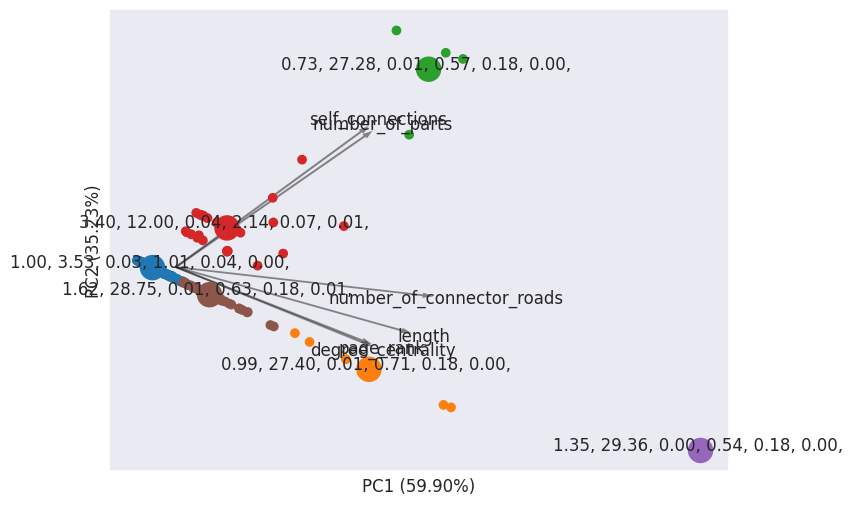
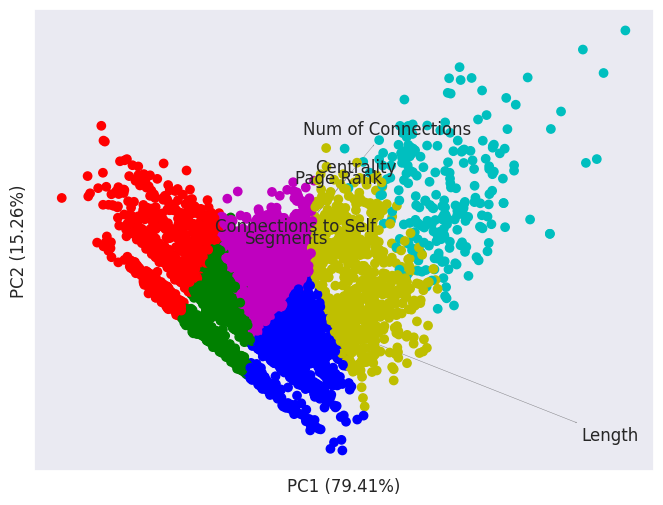
log scale and removed insane connections

diff --git a/capstone_roads.py b/capstone_roads.py
@@ -6,7 +6,9 @@
 import geopandas as gpd
 import shapely
 import pandas as pd
+import numpy as np
 import timeit
+import math
 
 # pip install icecream
 from icecream import ic
@@ -51,7 +53,8 @@ def get_neighbors_and_update(this_dict, this_name, this_line, tree, data):
             if data["FULLNAME"][id] == this_name:
                 this_dict["self_connections"] += 1
             # append all connected roads that are not this road
-            this_dict["connections_names"].append(data["FULLNAME"][id])
+            if data["FULLNAME"][id] not in this_dict["connections_names"]:
+                this_dict["connections_names"].append(data["FULLNAME"][id])
             this_dict["number_of_connector_roads"] += 1
     return this_dict
 
@@ -212,23 +215,26 @@ def show_results(list_of_connected_dicts):
     # takes a while to put back into queriable format
     df = df.drop(columns=["road_name", "connections_names", "is_named"])
     pd.set_option("display.max_columns", None)
+    ic(df.columns)
 
-    new_df = df.copy()
+    transformed_df = df.copy()
+    eps = 0.000001
 
     for i, col in enumerate(df.columns):
-        new_df[col] = df[col] / df[col].max()
+        transformed_df[col] = df[col] / df[col].max()
+        transformed_df[col] = np.log(transformed_df[col] + eps)
         # normalize. Make sure not all vals are the same. If two values then they will be as far apart as possible
+        # log scale, 0 undefined
 
     kmeans = KMeans(n_clusters=6)
-    kmeans.fit(new_df)
-    ic(kmeans.cluster_centers_)
+    kmeans.fit(transformed_df)
     orig_dimen_centers = [
         kmeans.cluster_centers_[i] * df[col].max() for i, col in enumerate(df.columns)
     ]
     # kmeans first and then pca later -- provides the most seperation
 
     pca = PCA(n_components=2)
-    reduced_data = pca.fit_transform(new_df)
+    reduced_data = pca.fit_transform(transformed_df)
     print(
         "our variance explained by the first two principle components are:",
         pca.explained_variance_ratio_,
@@ -236,7 +242,7 @@ def show_results(list_of_connected_dicts):
 
     transformed_center = pca.transform(kmeans.cluster_centers_)
 
-    tabl_cols = list(mcolors.TABLEAU_COLORS.values())
+    tabl_cols = list(mcolors.BASE_COLORS.values())
     cols = [tabl_cols[int(val)] for val in kmeans.labels_]
 
     k_cols = [tabl_cols[i] for i in range(6)]
@@ -255,6 +261,15 @@ def show_results(list_of_connected_dicts):
     # empirical formula to determine arrow width
     width = -0.0075 * min([subtract(*plt.xlim()), subtract(*plt.ylim())])
 
+    col_names = [
+        "Connections to Self",
+        "Num of Connections",
+        "Length",
+        "Segments",
+        "Centrality",
+        "Page Rank",
+    ]
+
     # features as arrows
     for i, arrow in enumerate(arrows):
         plt.arrow(
@@ -262,42 +277,44 @@ def show_results(list_of_connected_dicts):
             0,
             *arrow,
             color="k",
-            alpha=0.5,
+            alpha=0.3,
             width=width,
             ec="none",
             length_includes_head=True,
         )
-        plt.text(*(arrow * 1.05), df.columns[i], ha="center", va="center")
+        plt.text(*(arrow * 1.1), col_names[i], ha="center", va="center", fontsize=14)
 
     centers = pd.DataFrame(transformed_center)
-    ic(centers)
 
     # axis labels
     for i, axis in enumerate("xy"):
         getattr(plt, f"{axis}ticks")([])
-        getattr(plt, f"{axis}label")(f"PC{i + 1} ({pvars[i]:.2f}%)")
+        getattr(plt, f"{axis}label")(f"Principle Component {i + 1} ({pvars[i]:.2f}%)")
 
     plt.scatter(reduced_data[:, 0], reduced_data[:, 1], c=cols)
-    plt.scatter(centers.iloc[:, 0], centers.iloc[:, 1], c=k_cols, s=300)
+    # plt.scatter(centers.iloc[:, 0], centers.iloc[:, 1], c=k_cols, s=300)
 
-    for k in range(6):
-        new_str = ""
-        for val in range(6):
-            str_seg = float(orig_dimen_centers[val][k])
-            new_str += f"{str_seg:.2f}, "
-        plt.text(
-            centers.iloc[k, 0],
-            centers.iloc[k, 1],
-            s=new_str,
-            horizontalalignment="center",
-        )
+    # for k in range(6):
+    #     new_str = ""
+    #     for val in range(6):
+    #         str_seg = float(orig_dimen_centers[val][k])
+    #         new_str += f"{str_seg:.2f}, "
+    #     plt.text(
+    #         centers.iloc[k, 0],
+    #         centers.iloc[k, 1],
+    #         s=new_str,
+    #         horizontalalignment="center",
+    #     )
+
+    # center with label ^
     plt.savefig("pca_w_loadings", bbox_inches="tight")
     plt.close()
 
     # Put the result into a color plot (saved as png, not interactive)
     fig, ax = plt.subplots()
     ax.scatter(reduced_data[:, 0], reduced_data[:, 1], c=cols)
-    ax.scatter(centers.iloc[:, 0], centers.iloc[:, 1], c=k_cols, s=300)
+    # ax.scatter(centers.iloc[:, 0], centers.iloc[:, 1], c=k_cols, s=300)
+    # center ^
     ax.set_title("K-means clustering on the roads (projected via PCA)")
     ax.set_xticks(())
     ax.set_yticks(())
@@ -339,8 +356,6 @@ def setup(filepath):
 
     num_roads = len(data["geometry"])
     shape_files = data["geometry"]
-
-    plot(shape_files)
 
     for j in range(num_roads):
         if str(data["FULLNAME"][j]) == "nan":
@@ -399,4 +414,4 @@ def main(filepath):
 
 
 if __name__ == "__main__":
-    main(filepath="tl_2022_51678_roads.zip")
+    main(filepath="tl_2022_06047_roads.zip")

diff --git a/gui.py b/gui.py
@@ -12,6 +12,8 @@ from PyQt5.QtWidgets import QApplication
 import capstone_roads  # our python file. Should be in the same working directory as this python script
 import matplotlib.pyplot as plt
 import geopandas as gpd
+import pandas as pd
+from icecream import ic
 
 plt.switch_backend("Agg")  # so no issues with GUI backend
 import seaborn as sns
@@ -27,6 +29,12 @@ def main():
         gpd_files = gpd.GeoSeries(shape_files, crs=4326)  # passed in shape_files
         fig, ax = plt.subplots()
         gpd_files.plot(ax=ax, color=cols_list)
+
+        # df = pd.DataFrame(list_of_connected_dicts)
+        # new_df = df.loc[df["road_name"] == "Kendall Dr"]
+        # new_df = df.loc[df["road_name"] == "Sunset Dr"]
+        # print(new_df)
+        # ic(new_df.shape)
 
         plt.savefig(
             "road_clustering.png", bbox_inches="tight"
@@ -146,7 +154,7 @@ def main():
                 dpg.mvStyleVar_ScrollbarSize, 4, category=dpg.mvThemeCat_Core
             )
 
-    with dpg.window(label="Chose Road Network to Analyze", width=550, height=350):
+    with dpg.window(label="Chose Road Network to Analyze", width=600, height=350):
         text0 = dpg.add_text(
             "Note: If you don't find your city below, download by county"
         )
